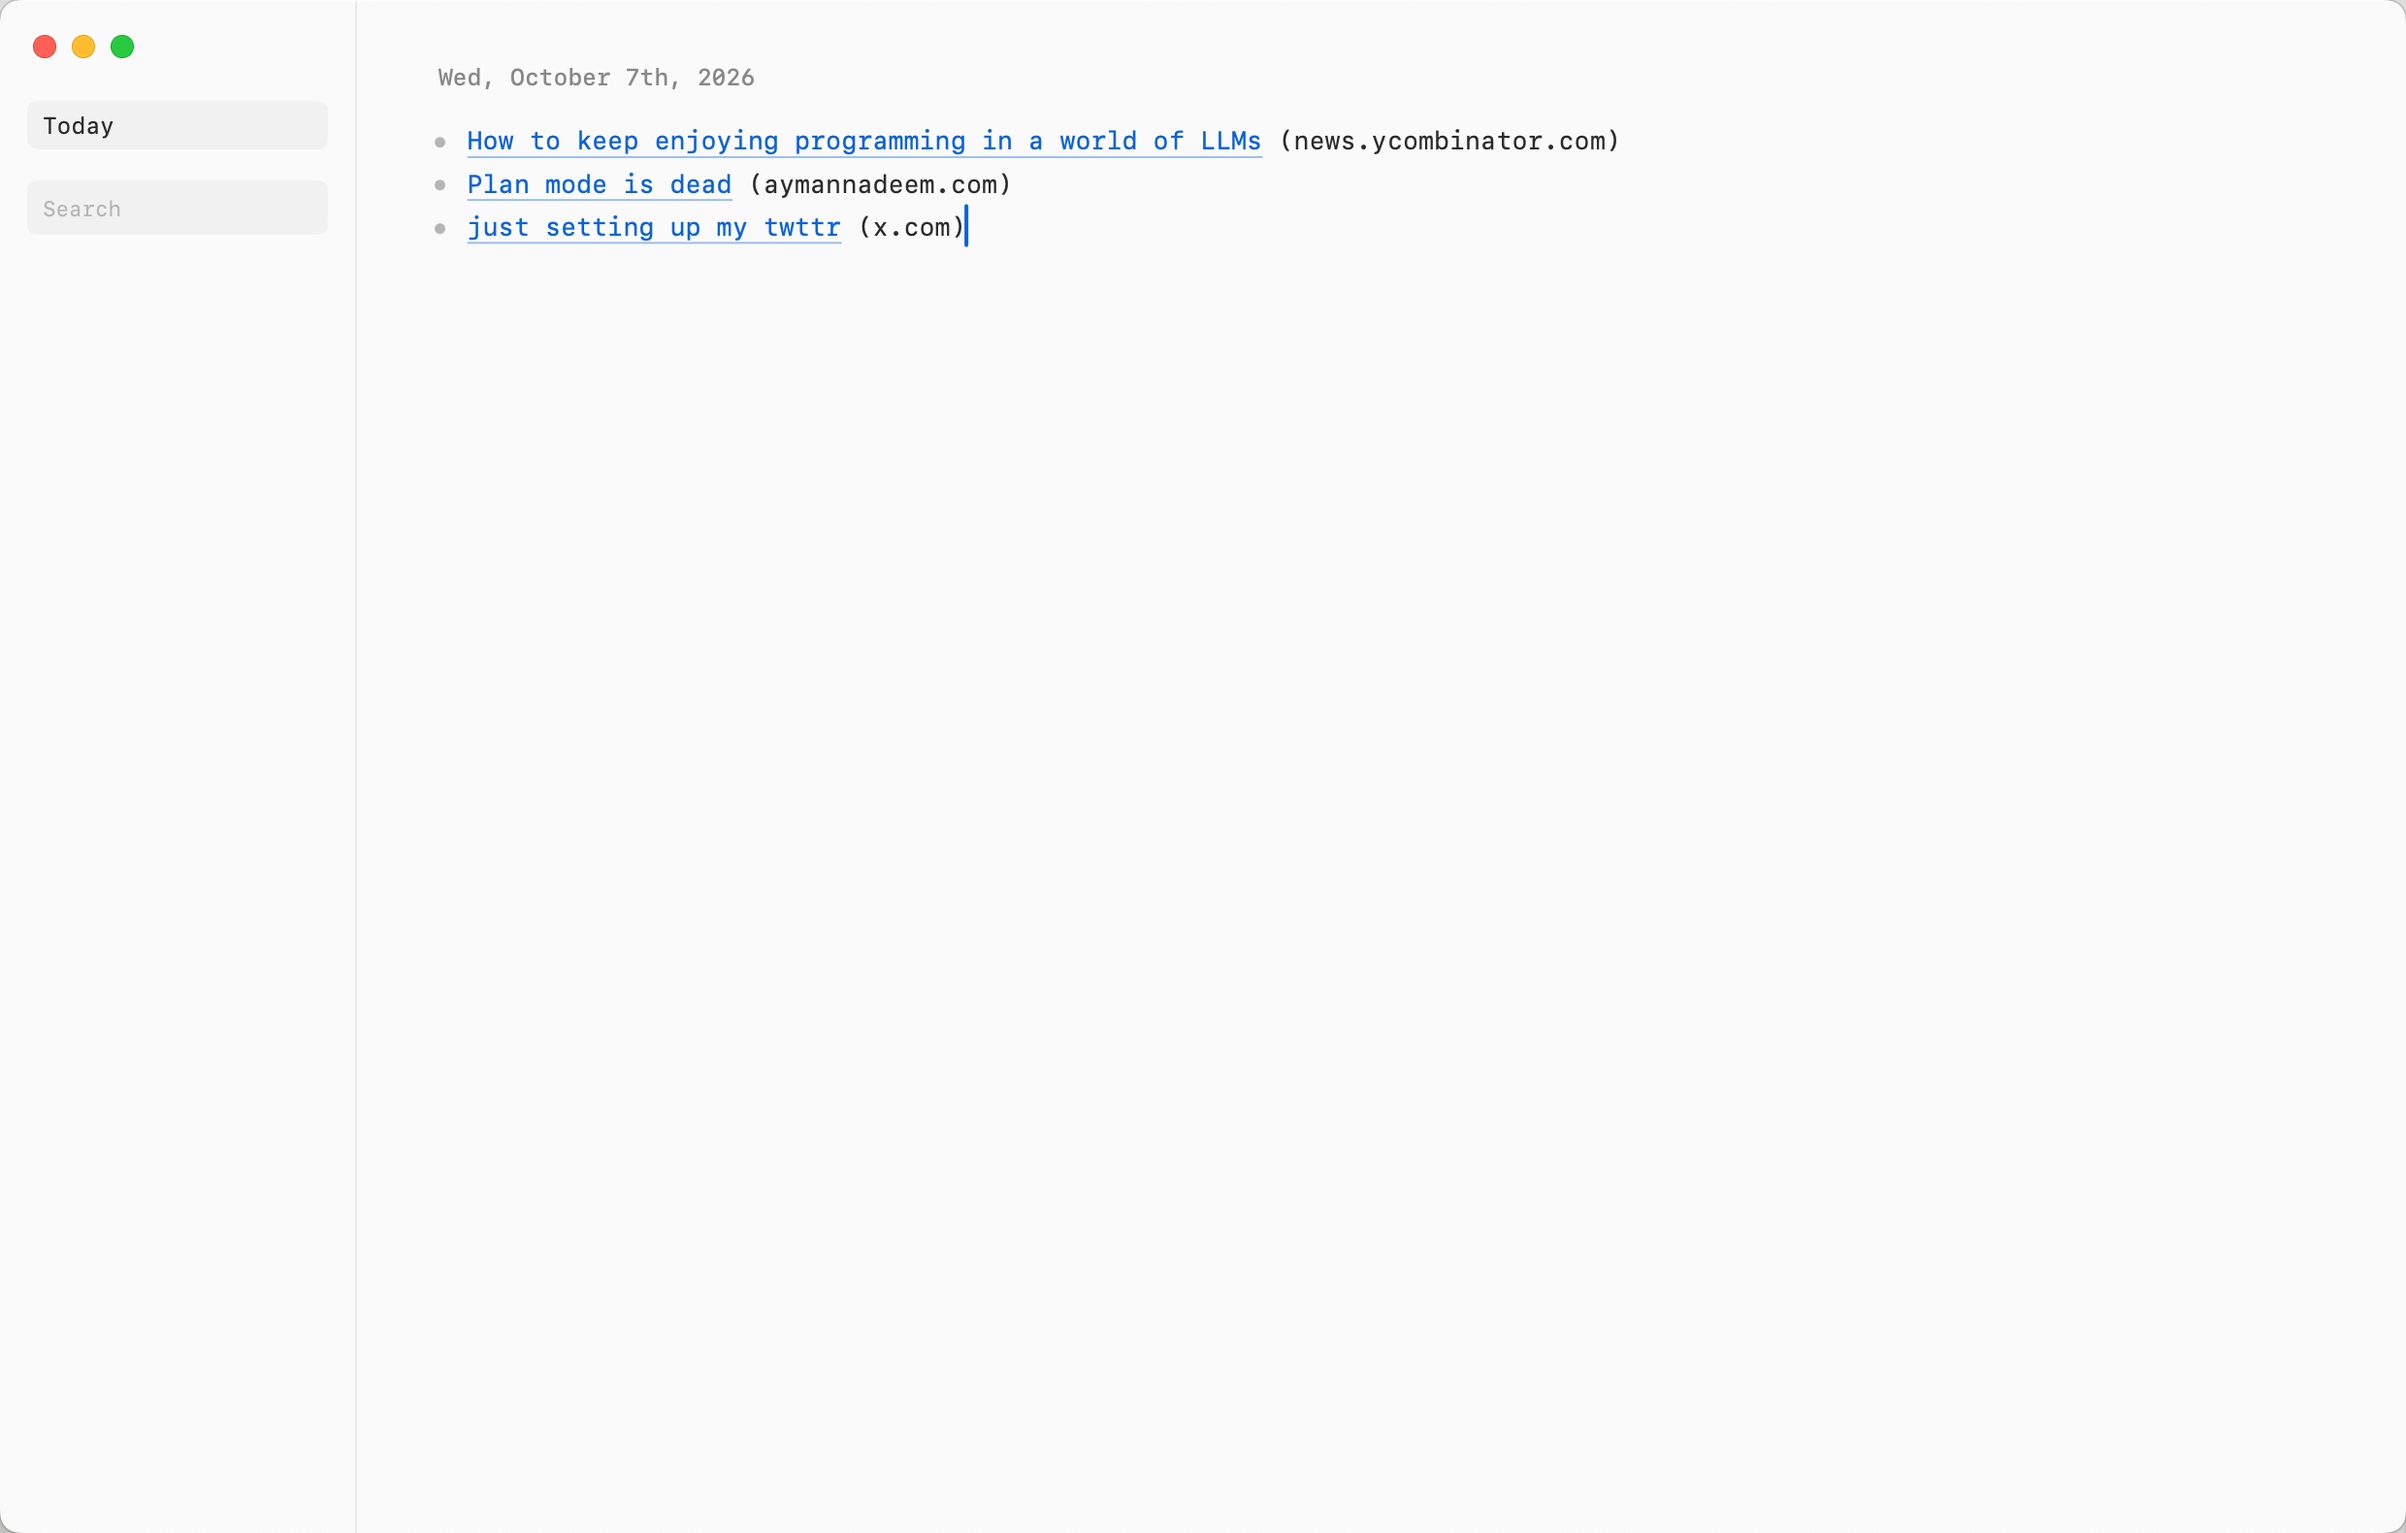
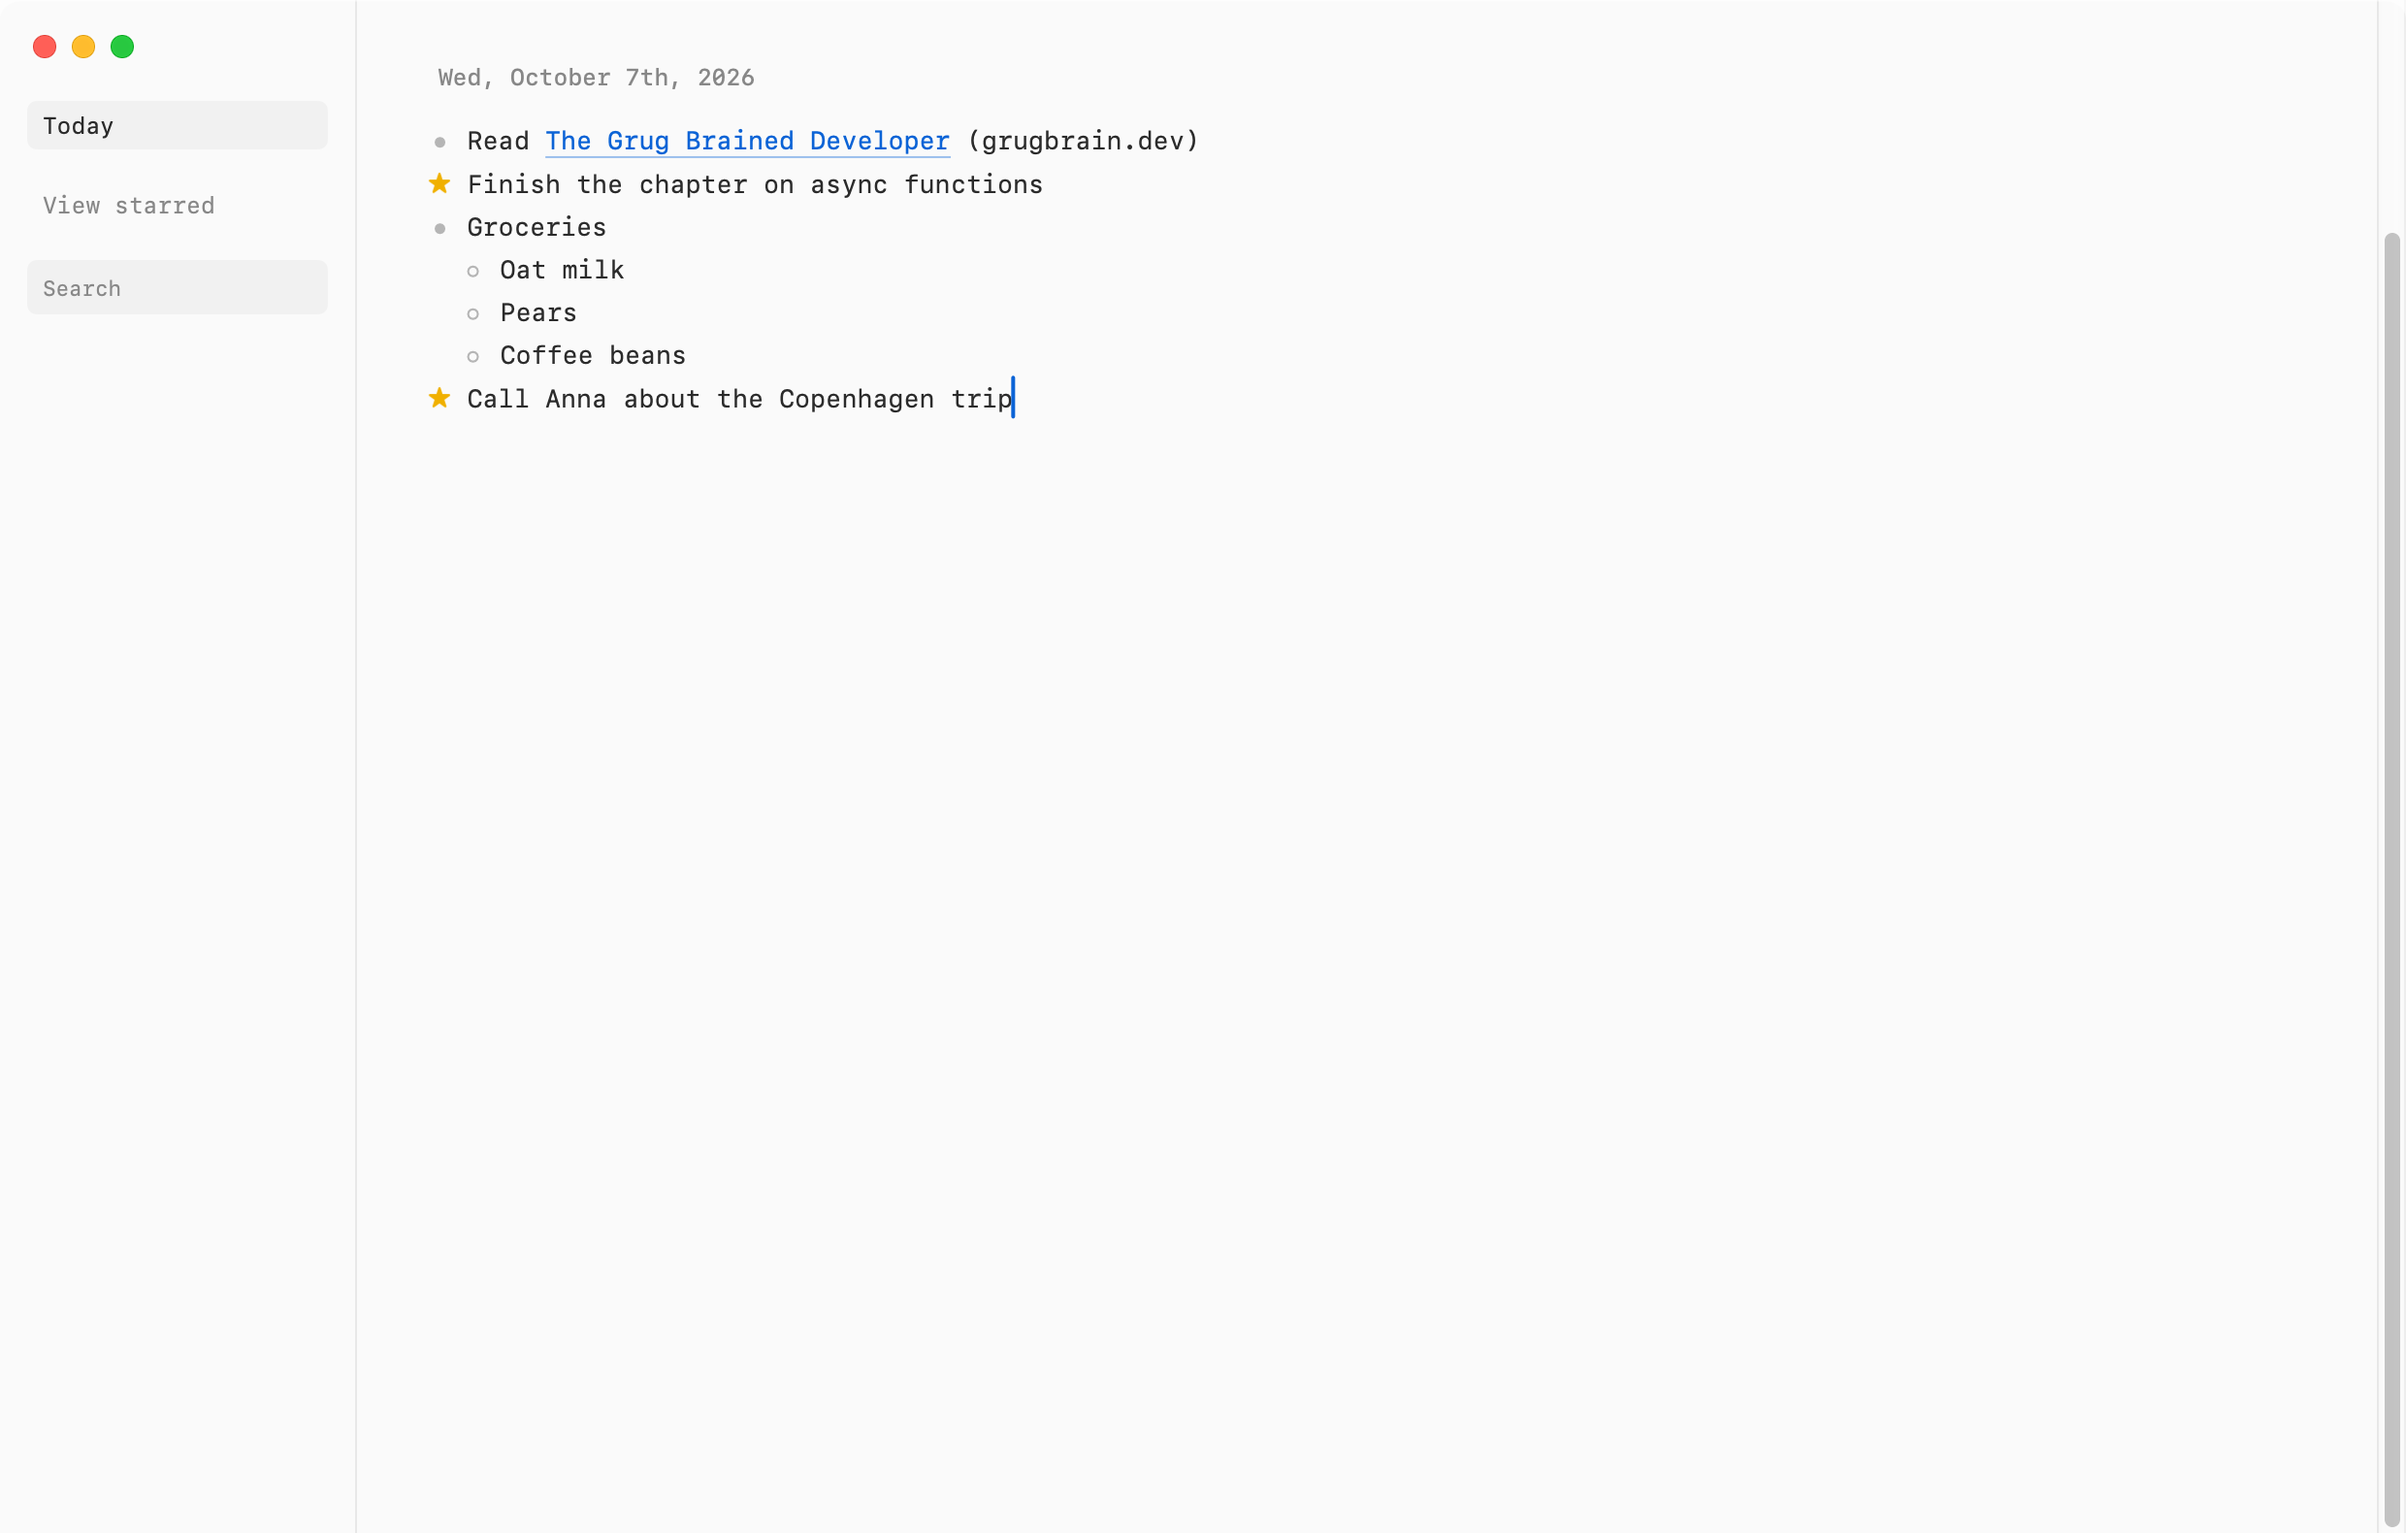
NoteRepo 2.4.0

diff --git a/Sources/NoteRepoCLI/Manifest.swift b/Sources/NoteRepoCLI/Manifest.swift
@@ -69,6 +69,13 @@ enum Manifest {
     ],
     changelog: [
       Release(
+        version: "2.4.0", date: "2026-10-07",
+        changes: [
+          "Starred items have starred: true in JSON. Editing an item keeps its star.",
+          "The app can star items and show them across days. Spelling and grammar checks are off.",
+        ]
+      ),
+      Release(
         version: "2.3.0", date: "2026-10-07",
         changes: ["An X post gets the first line of its text. add and title treat it like any other link."]
       ),

diff --git a/Sources/NoteRepoCore/Version.swift b/Sources/NoteRepoCore/Version.swift
@@ -1,3 +1,3 @@
 public enum NoteRepoVersion {
-  public static let current = "2.3.0"
+  public static let current = "2.4.0"
 }

diff --git a/README.md b/README.md
@@ -15,7 +15,7 @@ NoteRepo is a native Mac app written in Swift. The [changelog](CHANGELOG.md) lis
 
 ## Download
 
-Get `NoteRepo-2.3.0.zip` from the [latest release](https://github.com/flaviocopes/noterepo/releases/latest), unzip it, and drag NoteRepo to your Applications folder. It runs on Apple silicon and Intel Macs with macOS 14 or later.
+Get `NoteRepo-2.4.0.zip` from the [latest release](https://github.com/flaviocopes/noterepo/releases/latest), unzip it, and drag NoteRepo to your Applications folder. It runs on Apple silicon and Intel Macs with macOS 14 or later.
 
 Coming from 1.x? Replace the old app with the new one. Your notes stay where they are.
 
@@ -42,7 +42,6 @@ defaults write com.flaviocopes.noterepo AppUpdaterAutomaticChecks -bool false
 - Continuous scrolling back through the days that have notes
 - Bulleted and numbered lists started with `-` or `1.`
 - Nested list items with `Tab` and `Shift+Tab`
-- Star an item by hovering its bullet and clicking. Starred items show in the sidebar
 - Several lines in one item with `⌥Return`
 - Automatic saving
 - Fast text search
@@ -279,11 +278,7 @@ open build/NoteRepo.app
 
 The script builds `build/NoteRepo.app` for Apple silicon and Intel, with the `noterepo` tool inside. It signs the app with my Developer ID when that certificate is in the keychain, and ad hoc everywhere else, so your copy is signed ad hoc. Drag it to your Applications folder.
 
-A copy you build yourself opens without a warning on your Mac. If you send it to another Mac, macOS says it "could not verify NoteRepo is free of malware". Click **Done**, then go to **System Settings → Privacy & Security** and click **Open Anyway**, or remove the quarantine flag in Terminal:
-
-```sh
-xattr -dr com.apple.quarantine /Applications/NoteRepo.app
-```
+A copy you build yourself opens without a warning on your Mac. If you send it to another Mac, macOS says it "could not verify NoteRepo is free of malware". Click **Done**, then go to **System Settings → Privacy & Security** and click **Open Anyway**.
 
 ## Where your notes live
 

diff --git a/CHANGELOG.md b/CHANGELOG.md
@@ -2,6 +2,13 @@
 
 Every NoteRepo release, newest first. Downloads are on the [releases page](https://github.com/flaviocopes/noterepo/releases).
 
+## 2.4.0 (October 7, 2026)
+
+- **Star items.** Hover a bullet or number and click to star the item. Click the star again to remove it. Stars stay with their items when you save, reload, or edit them with the CLI.
+- **View starred.** The button below Today shows starred items from every day in the main feed. Links still work, and clicking a star removes it from this view. Click Today to return to the full editor.
+- Spelling and grammar checks are off in the editor.
+- The CLI includes `"starred": true` for starred items in its JSON output.
+
 ## 2.3.0 (October 7, 2026)
 
 - **X posts are links.** Paste a post from X and you get the first line of its text, the same way a blog link shows its title. `noterepo add` does the same. The preview card is gone. A post you saved before stays as its URL until you paste the link again.
